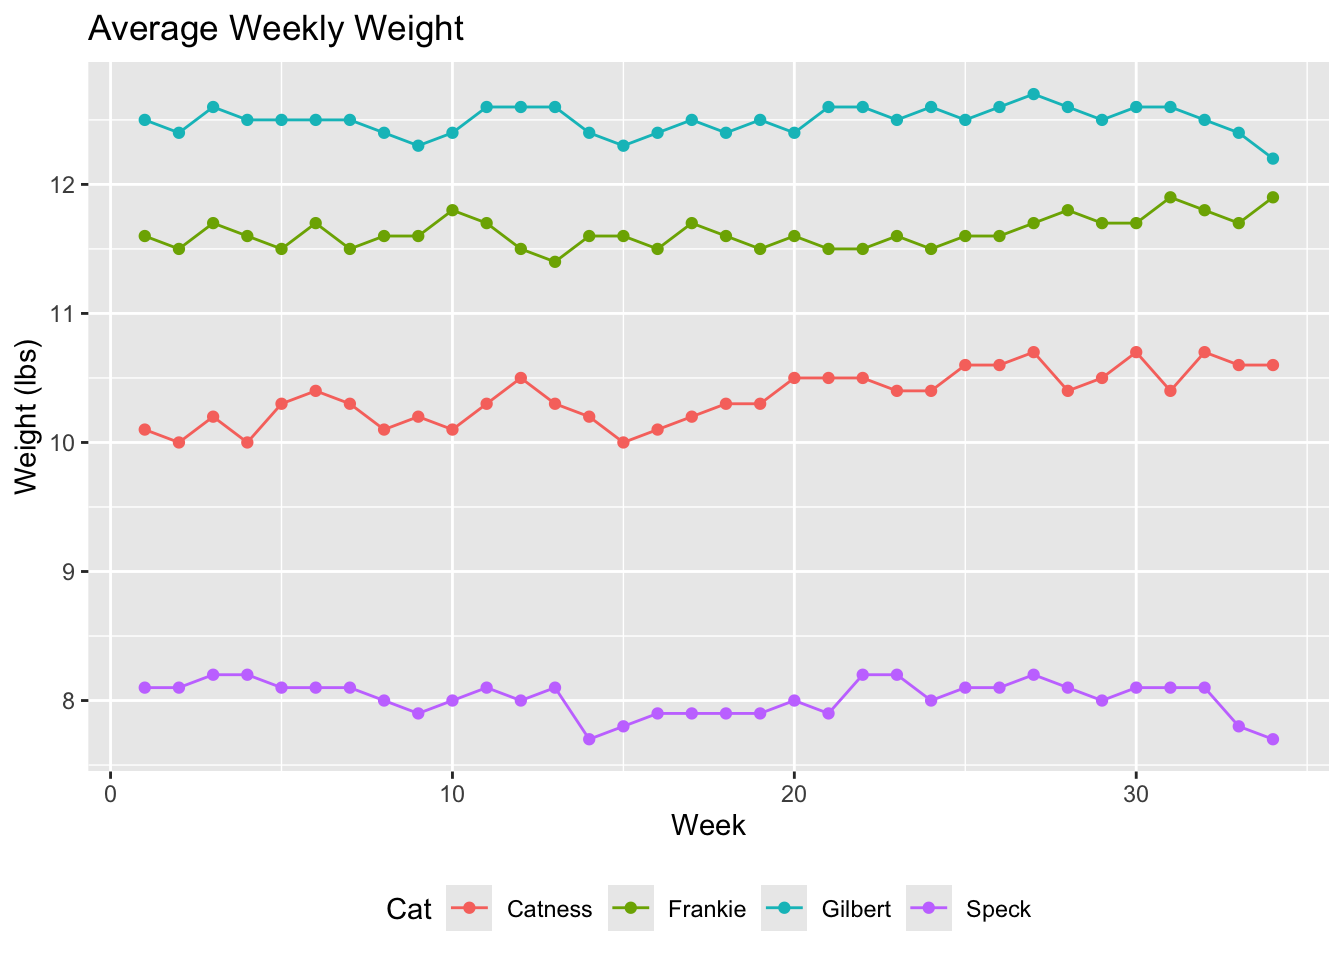
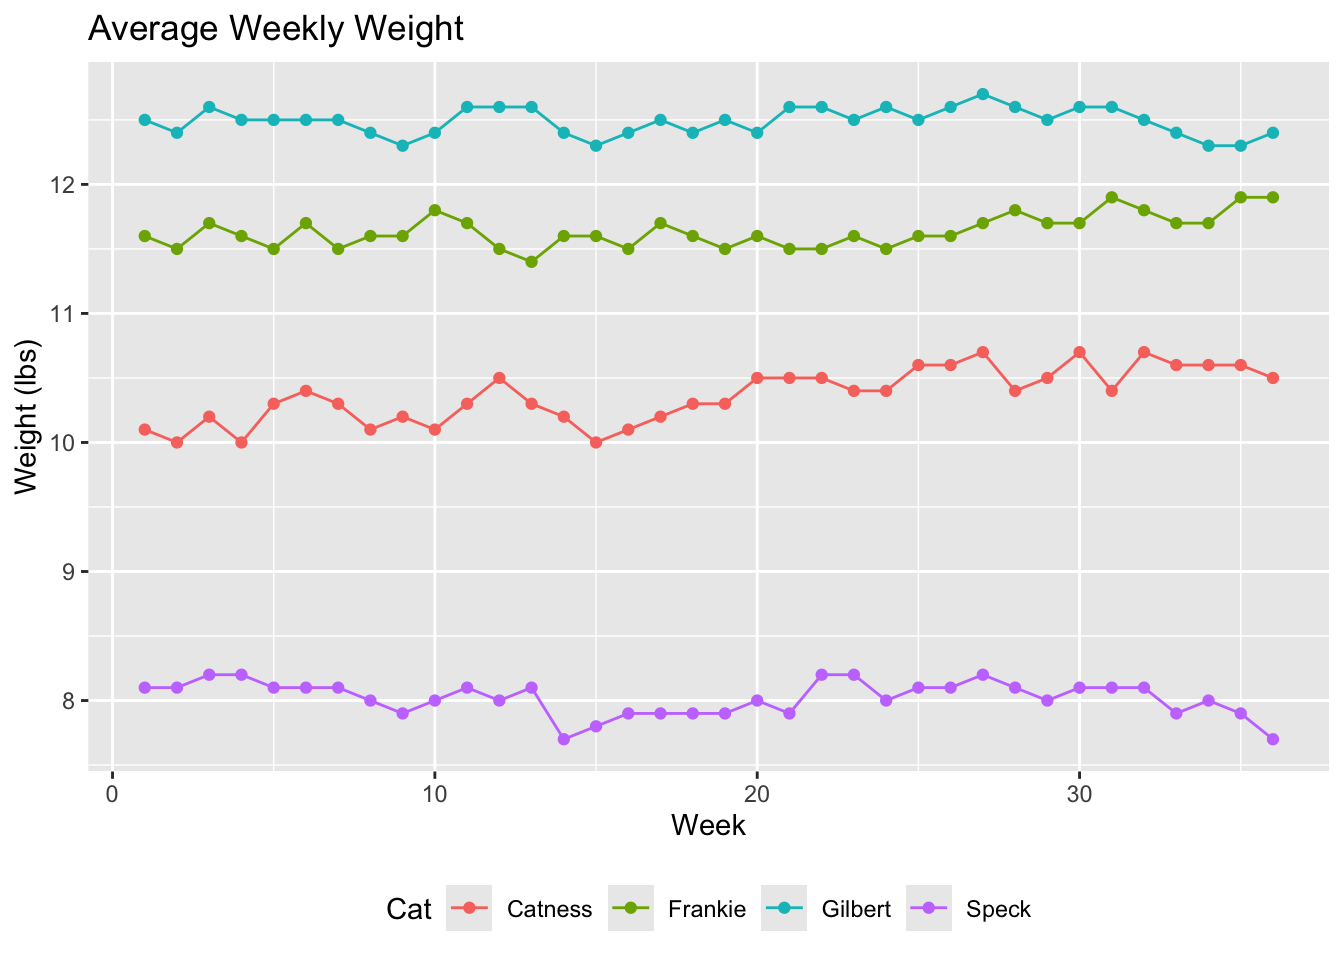
july 11 update

diff --git a/index.html b/index.html
@@ -48,7 +48,7 @@ ul.task-list li input[type="checkbox"] {
 <header id="title-block-header" class="quarto-title-block default">
 <div class="quarto-title">
 <h1 class="title">Weight Trends and Litter Box Usage Patterns for the Morache Clowder</h1>
-<p class="subtitle lead">From November 5th, 2024</p>
+<p class="subtitle lead">Last Updated July 11, 2025</p>
 </div>
 
 
@@ -226,10 +226,10 @@ Figure&nbsp;1
 <td style="text-align: right;">9.5</td>
 <td style="text-align: right;">10.9</td>
 <td style="text-align: right;">10.3</td>
-<td style="text-align: right;">10.3</td>
+<td style="text-align: right;">10.4</td>
 <td style="text-align: right;">0.36</td>
-<td style="text-align: right;">-0.16</td>
-<td style="text-align: right;">2.05</td>
+<td style="text-align: right;">-0.23</td>
+<td style="text-align: right;">2.06</td>
 </tr>
 <tr class="even">
 <td style="text-align: left;">Frankie</td>
@@ -237,9 +237,9 @@ Figure&nbsp;1
 <td style="text-align: right;">12.1</td>
 <td style="text-align: right;">11.6</td>
 <td style="text-align: right;">11.6</td>
-<td style="text-align: right;">0.34</td>
-<td style="text-align: right;">-0.22</td>
-<td style="text-align: right;">1.93</td>
+<td style="text-align: right;">0.33</td>
+<td style="text-align: right;">-0.29</td>
+<td style="text-align: right;">1.98</td>
 </tr>
 <tr class="odd">
 <td style="text-align: left;">Gilbert</td>
@@ -248,18 +248,18 @@ Figure&nbsp;1
 <td style="text-align: right;">12.5</td>
 <td style="text-align: right;">12.5</td>
 <td style="text-align: right;">0.21</td>
-<td style="text-align: right;">0.35</td>
-<td style="text-align: right;">2.33</td>
+<td style="text-align: right;">0.41</td>
+<td style="text-align: right;">2.36</td>
 </tr>
 <tr class="even">
 <td style="text-align: left;">Speck</td>
 <td style="text-align: right;">7.5</td>
 <td style="text-align: right;">8.9</td>
 <td style="text-align: right;">8.0</td>
-<td style="text-align: right;">8.1</td>
+<td style="text-align: right;">8.0</td>
 <td style="text-align: right;">0.28</td>
-<td style="text-align: right;">0.25</td>
-<td style="text-align: right;">3.26</td>
+<td style="text-align: right;">0.29</td>
+<td style="text-align: right;">3.24</td>
 </tr>
 </tbody>
 </table>
@@ -280,23 +280,23 @@ Figure&nbsp;1
 <tbody>
 <tr class="odd">
 <td style="text-align: left;">Catness</td>
-<td style="text-align: right;">713</td>
-<td style="text-align: right;">21.6</td>
+<td style="text-align: right;">763</td>
+<td style="text-align: right;">21.8</td>
 </tr>
 <tr class="even">
 <td style="text-align: left;">Frankie</td>
-<td style="text-align: right;">586</td>
-<td style="text-align: right;">17.8</td>
+<td style="text-align: right;">634</td>
+<td style="text-align: right;">18.1</td>
 </tr>
 <tr class="odd">
 <td style="text-align: left;">Gilbert</td>
-<td style="text-align: right;">704</td>
-<td style="text-align: right;">21.3</td>
+<td style="text-align: right;">752</td>
+<td style="text-align: right;">21.5</td>
 </tr>
 <tr class="even">
 <td style="text-align: left;">Speck</td>
-<td style="text-align: right;">728</td>
-<td style="text-align: right;">22.1</td>
+<td style="text-align: right;">801</td>
+<td style="text-align: right;">22.9</td>
 </tr>
 </tbody>
 </table>

diff --git a/cleaner.py b/cleaner.py
@@ -14,7 +14,8 @@ class CatDataCleaner:
                 "litter_robot_8.csv",
                 "litter_robot_9.csv",
                 "litter_robot_10.csv",
-                "litter_robot_11.csv"
+                "litter_robot_11.csv",
+                "litter_robot_12.csv"
             ]
         else:
             self.input_files = input_files
